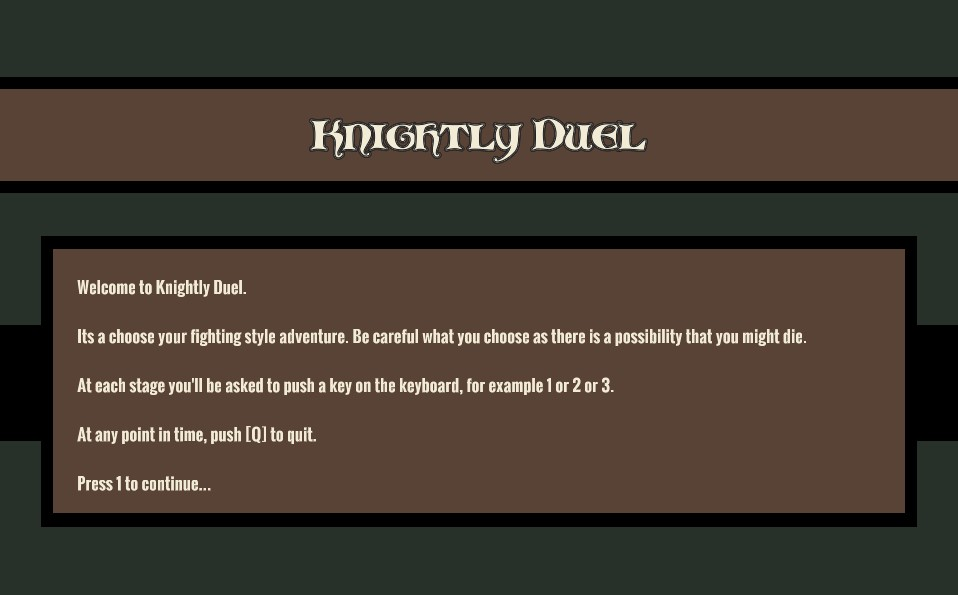
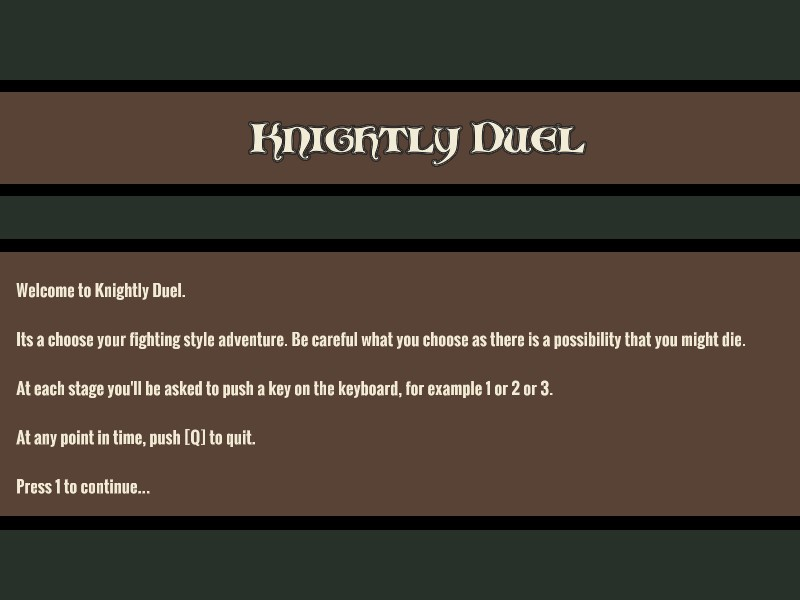
changed html from games to accomodate FullScreen and added blockbreaker

diff --git a/public/BlockBreaker/TemplateData/style.css b/public/BlockBreaker/TemplateData/style.css
@@ -11,8 +11,8 @@
 .webgl-content .progress.Dark .empty {background-image: url('progressEmpty.Dark.png');}
 .webgl-content .progress.Dark .full {background-image: url('progressFull.Dark.png');}
 
-.webgl-content .footer {margin-top: 5px; height: 38px; line-height: 38px; font-family: Helvetica, Verdana, Arial, sans-serif; font-size: 18px;}
-.webgl-content .footer .webgl-logo, .title, .fullscreen {height: 100%; display: inline-block; background: transparent center no-repeat;}
-.webgl-content .footer .webgl-logo {background-image: url('webgl-logo.png'); width: 204px; float: left;}
-.webgl-content .footer .title {margin-right: 10px; float: right;}
-.webgl-content .footer .fullscreen {background-image: url('fullscreen.png'); width: 38px; float: right;}
+.webgl-content .under-webgl {margin-top: 5px; height: 38px; line-height: 38px; font-family: Helvetica, Verdana, Arial, sans-serif; font-size: 18px;}
+.webgl-content .under-webgl .webgl-logo, .title, .fullscreen {height: 100%; display: inline-block; background: transparent center no-repeat;}
+.webgl-content .under-webgl .webgl-logo {background-image: url('webgl-logo.png'); width: 204px; float: left;}
+.webgl-content .under-webgl .title {margin-right: 10px; float: right;}
+.webgl-content .under-webgl .fullscreen {background-image: url('fullscreen.png'); width: 38px; float: right;}

diff --git a/public/KnightlyDuels/TemplateData/style.css b/public/KnightlyDuels/TemplateData/style.css
@@ -11,8 +11,8 @@
 .webgl-content .progress.Dark .empty {background-image: url('progressEmpty.Dark.png');}
 .webgl-content .progress.Dark .full {background-image: url('progressFull.Dark.png');}
 
-.webgl-content .footer {margin-top: 5px; height: 38px; line-height: 38px; font-family: Helvetica, Verdana, Arial, sans-serif; font-size: 18px;}
-.webgl-content .footer .webgl-logo, .title, .fullscreen {height: 100%; display: inline-block; background: transparent center no-repeat;}
-.webgl-content .footer .webgl-logo {background-image: url('webgl-logo.png'); width: 204px; float: left;}
-.webgl-content .footer .title {margin-right: 10px; float: right;}
-.webgl-content .footer .fullscreen {background-image: url('fullscreen.png'); width: 38px; float: right;}
+.webgl-content .under-webgl {margin-top: 5px; height: 38px; line-height: 38px; font-family: Helvetica, Verdana, Arial, sans-serif; font-size: 18px;}
+.webgl-content .under-webgl .webgl-logo, .title, .fullscreen {height: 100%; display: inline-block; background: transparent center no-repeat;}
+.webgl-content .under-webgl .webgl-logo {background-image: url('webgl-logo.png'); width: 204px; float: left;}
+.webgl-content .under-webgl .title {margin-right: 10px; float: right;}
+.webgl-content .under-webgl .fullscreen {background-image: url('fullscreen.png'); width: 38px; float: right;}

diff --git a/public/SpaceInvaders/TemplateData/style.css b/public/SpaceInvaders/TemplateData/style.css
@@ -11,8 +11,8 @@
 .webgl-content .progress.Dark .empty {background-image: url('progressEmpty.Dark.png');}
 .webgl-content .progress.Dark .full {background-image: url('progressFull.Dark.png');}
 
-.webgl-content .footer {margin-top: 5px; height: 38px; line-height: 38px; font-family: Helvetica, Verdana, Arial, sans-serif; font-size: 18px;}
-.webgl-content .footer .webgl-logo, .title, .fullscreen {height: 100%; display: inline-block; background: transparent center no-repeat;}
-.webgl-content .footer .webgl-logo {background-image: url('webgl-logo.png'); width: 204px; float: left;}
-.webgl-content .footer .title {margin-right: 10px; float: right;}
-.webgl-content .footer .fullscreen {background-image: url('fullscreen.png'); width: 38px; float: right;}
+.webgl-content .under-webgl {margin-top: 5px; height: 38px; line-height: 38px; font-family: Helvetica, Verdana, Arial, sans-serif; font-size: 18px;}
+.webgl-content .under-webgl .webgl-logo, .title, .fullscreen {height: 100%; display: inline-block; background: transparent center no-repeat;}
+.webgl-content .under-webgl .webgl-logo {background-image: url('webgl-logo.png'); width: 204px; float: left;}
+.webgl-content .under-webgl .title {margin-right: 10px; float: right;}
+.webgl-content .under-webgl .fullscreen {background-image: url('fullscreen.png'); width: 38px; float: right;}

diff --git a/src/modules/gamedev-page.js b/src/modules/gamedev-page.js
@@ -15,7 +15,8 @@ export default class GameDev extends Component {
               <div className="group">
                 <div className="game-cols span_1_of_3"><a className="font-persona text-light text-white" href={"KnightlyDuels/index.html"} target="_blank" rel="noopener noreferrer"><img src={require("../images/knightlyduel.jpg")} alt="Knightly Duel" className="game-thumbnails"/> Knightly Duel</a></div>
                 <div className="game-cols span_1_of_3"><a className="font-persona text-light text-white" href={"SpaceInvaders/index.html"} target="_blank" rel="noopener noreferrer"><img src={require("../images/spaceinvaders.jpg")} alt="Space Invaders" className="game-thumbnails"/>Space Invaders</a></div>
-                <div className="game-cols span_1_of_3"><a className="font-persona text-light text-white" href="/#">Game Development</a></div>
+                <div className="game-cols span_1_of_3"><a className="font-persona text-light text-white" href={"BlockBreaker/index.html"} target="_blank" rel="noopener noreferrer"><img src={require("../images/blockbreaker.jpg")} alt="Block Breaker" className="game-thumbnails"/>Block Breaker</a></div>
+
               </div>
             </div>
           </div>

diff --git a/public/BlockBreaker/index.html b/public/BlockBreaker/index.html
@@ -6,6 +6,8 @@
     <title>Unity WebGL Player | Block Breaker</title>
     <link rel="shortcut icon" href="TemplateData/favicon.ico">
     <link rel="stylesheet" href="TemplateData/style.css">
+    <link rel="stylesheet" href="../App.css">
+
     <script src="TemplateData/UnityProgress.js"></script>
     <script src="Build/UnityLoader.js"></script>
     <script>
@@ -13,12 +15,13 @@
     </script>
   </head>
   <body>
-    <div class="webgl-content">
-      <div id="gameContainer" style="width: 960px; height: 600px"></div>
-      <div class="footer">
-        <div class="webgl-logo"></div>
-        <div class="fullscreen" onclick="gameInstance.SetFullscreen(1)"></div>
-        <div class="title">Block Breaker</div>
+    <div class="main-content bg-orange text-white">
+      <div class="webgl-content">
+        <div id="gameContainer" style="width: 800px; height: 600px"></div>
+        <div class="under-webgl">
+          <div class="fullscreen" onclick="gameInstance.SetFullscreen(1)"></div>
+          <h1 class="font-persona">Block Breaker</h1>
+        </div>
       </div>
     </div>
   </body>

diff --git a/public/SpaceInvaders/index.html b/public/SpaceInvaders/index.html
@@ -7,7 +7,7 @@
     <link rel="shortcut icon" href="TemplateData/favicon.ico">
     <link rel="stylesheet" href="TemplateData/style.css">
     <link rel="stylesheet" href="../App.css">
-  
+
     <script src="TemplateData/UnityProgress.js"></script>
     <script src="Build/UnityLoader.js"></script>
     <script>
@@ -19,6 +19,7 @@
       <div class="webgl-content">
         <div id="gameContainer" style="width: 800px; height: 600px"></div>
         <div class="under-webgl">
+          <div class="fullscreen" onclick="gameInstance.SetFullscreen(1)"></div>
           <h1 class="font-persona">Space Invaders</h1>
         </div>
       </div>

diff --git a/public/KnightlyDuels/index.html b/public/KnightlyDuels/index.html
@@ -19,6 +19,7 @@
       <div class="webgl-content">
         <div id="gameContainer" style="width: 960px; height: 600px"></div>
         <div class="under-webgl">
+          <div class="fullscreen" onclick="gameInstance.SetFullscreen(1)"></div>
           <h1 class="font-persona">Knightly Duel</h1>
         </div>
       </div>

diff --git a/src/App.css b/src/App.css
@@ -461,6 +461,7 @@ p, a, span, .btn {
     left: 50%;
     -webkit-transform: translateX(-50%) rotate(-6deg);
     transform: translateX(-50%) rotate(-6deg);
+    width: 90%;
 }
 
 .nav-contact-info a{
